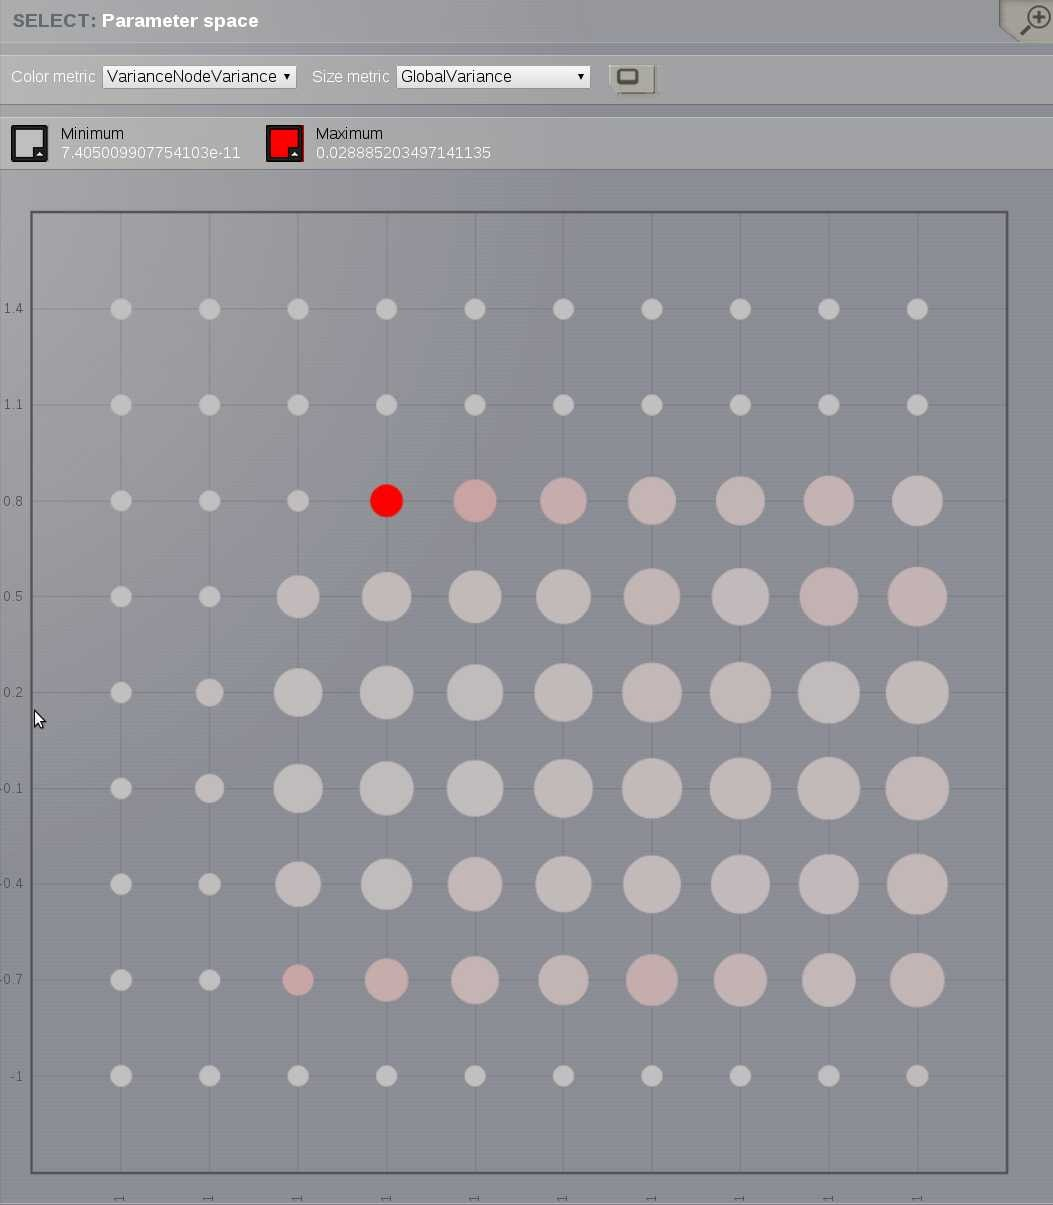
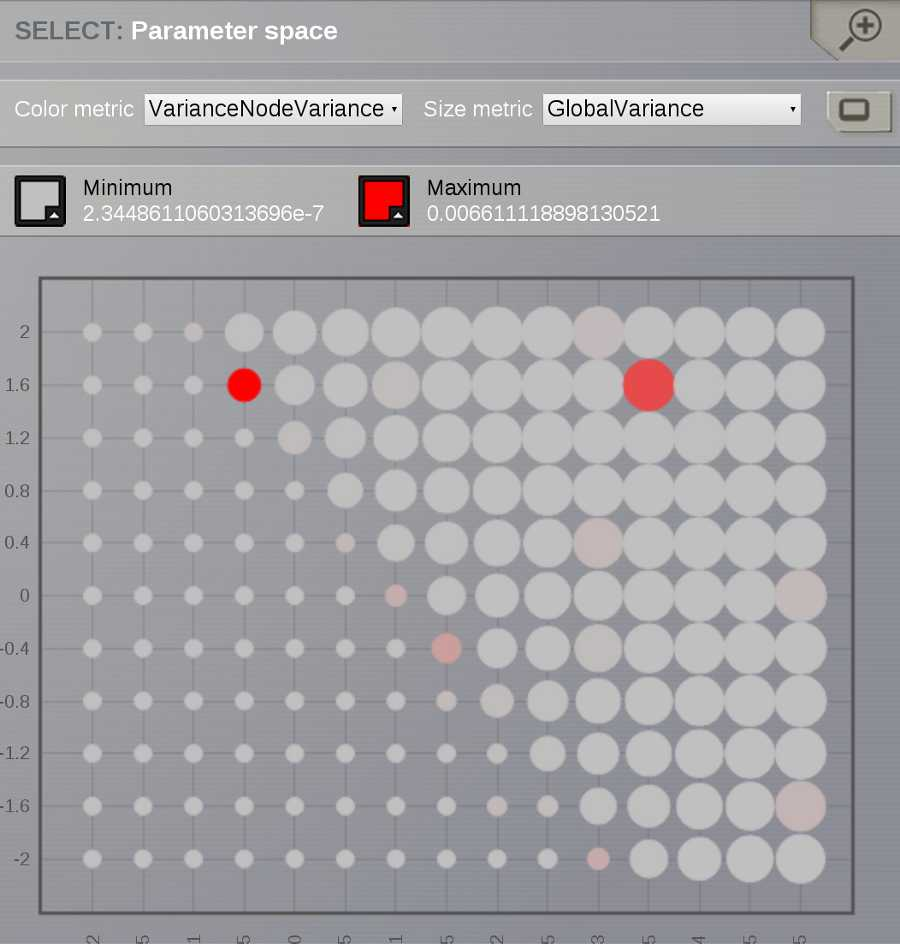
Added more details in the Stimulus tutorial
git-svn-id: https://repo.thevirtualbrain.org/svn/tvb/trunk/docs/manuals@3758 1c0e02f0-7929-43c0-8fb3-3293bf43b0d1

diff --git a/UserGuide/UserGuide-Tutorial_Lesion_Connectivity.rst b/UserGuide/UserGuide-Tutorial_Lesion_Connectivity.rst
@@ -1,5 +1,5 @@
-Tutorial 3
-----------
+Tutorial
+--------
 
 **A simple lesion study using TVB**
 
@@ -14,30 +14,55 @@ removing all the incoming and ongoing connections into and from this node.
 
   - Assuming that you have already created your project:
   
-    - Enter the `Connectivity` Area and click on `Long Range Connectivity`.
-    - Select the default connectivity matrix and click the `Launch` button.
+  - Enter the `Connectivity` Area and click on `Long Range Connectivity`.
+  - Select the default connectivity matrix and click the `Launch` button.
     
-  - In the right side the node-by-node connectivity matrix is displayed. You can select the quadrant to be displayed on the screen by accessing the quadrant selector.  
+  - In the right side the node-by-node connectivity matrix is displayed. You 
+    can select the quadrant to be displayed on the screen by accessing the 
+    quadrant selector.  
     
-    - Unselect the nodes you want lesion by clicking directly on the region labels. This will remove all the incoming and ongoing connections into and from those nodes. Here we choose to lesion the following cortical areas: lCCA, lCCP, and lPFCORB. 
-    - Enter a name for this new selection, save it  and click on the star icon on the top-right to save the new matrix.
-    - Go to `Project` Area and enter the `Data Structure` page. The new connectivity matrix should be available in Intermediate Data. 
-    - By selecting the new Connectivity, you will access to its Datatype Details allowing you to get information about the data, visualize them and export them.
-    - From the `Visualizers` tab you can launch a display to see the new matrix.
+  - Unselect the nodes you want lesion by clicking directly on the region 
+    labels. This will remove all the incoming and ongoing connections into 
+    and from those nodes. Here we choose to lesion the following cortical 
+    areas: lCCA, lCCP, and lPFCORB. 
+
+  - Enter a name for this new selection, save it  and click on the star icon 
+    on the top-right to save the new matrix.
+
+  - Go to `Project` Area and enter the `Data Structure` page. The new 
+    connectivity matrix should be available in Intermediate Data. 
+
+  - By selecting the new Connectivity, you will access to its Datatype 
+    Details allowing you to get information about the data, visualize them 
+    and export them.
+
+  - From the `Visualizers` tab you can launch a display to see the new matrix.
 	
-  - Simulate data using both connectivity matrices. You can now use the new connectivity matrix to simulate brain activity, using the TVB `Simulator`. Here we choose the BOLD model with underlying FitzHugh-Nagumo equations for the local dynamics. We goal is to run two long simulations, one using an intact connectivity and another using the connectivity with lesions. Except for the connectivity matrix, all parameters are the same (including the random number generator seed). 
+  - Simulate data using both connectivity matrices. You can now use the new 
+    connectivity matrix to simulate brain activity, using the TVB `Simulator`. 
+    Here we choose the BOLD model with underlying FitzHugh-Nagumo equations for 
+    the local dynamics. We goal is to run two long simulations, one using an 
+    intact connectivity and another using the connectivity with lesions. Except 
+    for the connectivity matrix, all parameters are the same (including the 
+    random number generator seed). 
     
-    - In the `Simulator` Area - central column - you can choose the long-range connectivity. Select the new connectivity matrix containing the lesions. 
+    - In the `Simulator` Area - central column - you can choose the long-range 
+      connectivity. Select the new connectivity matrix containing the lesions. 
     - Set the local dynamic model to Fitz-Hugh Nagumo.
     - Select BOLD in Monitors. 
     - Name the new simulation and launch it. 
-    - Repeat the previous steps but choosing the default matrix (intact) as the Long-range connectivity. 
+    - Repeat the previous steps but choosing the default matrix (intact) as the 
+      Long-range connectivity. 
 	
-  - Go to the `Operations` board. You can follow the state of the simulations. When simulations are finished your results will be represented by its datatype icons.
+  - Go to the `Operations` board. You can follow the state of the simulations. 
+    When simulations are finished your results will be represented by its 
+    datatype icons.
     
   - Export the results of both simulations and the connectivity matrices. 
   
-    - You can export the results by choosing `Export`: -> TVB format. The data will be stored in an HDF5 file ("filename.h5") which can be used to do further analysis using other softwares. 
+    - You can export the results by choosing `Export`: -> TVB format. The data 
+      will be stored in an HDF5 file ("filename.h5") which can be used to do 
+      further analysis using other softwares. 
 
 
 

diff --git a/UserGuide/UserGuide-Tutorial_Parameter_Space_Exploration.rst b/UserGuide/UserGuide-Tutorial_Parameter_Space_Exploration.rst
@@ -1,43 +1,53 @@
-Tutorial 2
-----------
+Tutorial
+--------
 
 **Performing parameter space exploration**
 
 **Objective**: 
 learn how to sweep and search across different simulation 
-settings that run on a distributed infrastructure. We illustrate this process 
-with a case study in larg-escale brain modelling within |TVB|.
+settings that run on a distributed infrastructure. 
+
+**Summary**: 
+In |TVB| platform it is possible to launch parallel simulations to explore the 
+changes in dynamics of the brain as a function of the local dynamics parameters.
+We illustrate this process with a case study in larg-escale brain simulations 
+within |TVB|.
 
 
-  #. Follow steps 1 to 3 from the Example 1.
-  #. Click on the 'V' button next to the model parameters if you want to see
-      the available parameter range and step size. At present, a maximum of 2
-      parameters can be explored at the same time.
-  #. Launch simulation
-  #. Choose three points within the parameter space. Each parameter set is 
-      represented by a scalar measure.
-  #. A 2D discrete representation will be displayed on the right side of the 
-      screen and it will be updated each time several simulations are finished.
-  #. From those results, the most relevant set of parameters can be 
-      distinguished. Choose three points and run longer simulations for those 
-      parameter sets.
-  #. For each set, run the simulation four times for different degrees of 
-      noise.
-  #. Save data. These data will now be analyzed.
-  #. Generate cross correlation matrix and coherence across all EEG sensors 
-      (or subset) and for fMRI signal across all regions (or subset).
-  #. Visualize on EEG map (circular map à la LP plus surface à la SK) and 
-      cross sections (fMRI).
-  #. Analyze EEG data via PCA. Visualize results:
-  
-    a. Plot modes of principal components and eigenvalues
-    b. FFT or time series
-  
+  - Assuming that you have already created your project:
+  - Enter the `Simulator` area.
+  - Select the default connectivity matrix. 
+  - Choose the local dynamic model `2D Generic Oscillator`
+  - Click on the 'V' button next to the model parameters to unfold the available 
+    parameter range and step size. At present, a maximum of 2
+    parameters can be explored at the same time.
+  - For :math:`I_{ext}` set the step size to 0.4 and for :math:`a` 0.5
+  - Name the new simulation and launch it. 
+  - After all simulation are finished, you should be able to see the Parameter
+    Space Exploration Visualizer.
+
 
 .. figure:: screenshots/simulator_pse_configuration.jpg
-  :width: 60%
-  :align: center
+   :width: 60%
+   :align: center
   
-  Each point in this two dimensional graph represents two metrics: by default
-  Global Variance corresponds to the size of the point and Variance of the
-  Variance of nodes maps the color scale. 
+Each point in this two dimensional graph represents two metrics: by default
+Global Variance corresponds to the size of the point and Variance of the
+Variance of nodes maps the color scale. 
+
+
+  - From those results, critical combination of parameters can be 
+    distinguished. 
+ 
+  -  If you go to `Project` Area and enter the `Data Structure` page. The results 
+     of all simulations will be held under one object called DataTypeGroup.
+
+  - Export the results of all simulations. 
+    
+  - You can export the results by clicking on the aforementioned object and
+    selecting the `Export` tab: -> TVB format.
+    The data will be available for download in a .zip file. 
+
+  - Within this folder you will find the TimeSeries for each possible parameter 
+    combination. Data are stored as HDF5 files ("filename.h5") which can be used 
+    to do further analysis using other softwares. 

diff --git a/UserGuide/UserGuide-Tutorial_Complex_Stimulus.rst b/UserGuide/UserGuide-Tutorial_Complex_Stimulus.rst
@@ -1,0 +1,68 @@
+Tutorial
+--------
+
+**Generate a  spatiotemporal stimulus**
+
+**Objective**: learn how to create a spatiotemporal pattern to study the 
+influence of a stimulation paradigm to outline different patterns of neural 
+activity. 
+
+**Summary**
+The intention is to have a platform capabable of having a representation of 
+stabilizing and unestabilizing sources. The goal is to observe the effect of
+the stimulation. 
+
+
+  -  Assuming that you have already created your project:
+
+  -  Go to the `Stimulus` Area --> `Surface Stimulus` page.
+  -  Enter a new name for the new `Surface Stimulus`.
+  -  Choose the default `Cortical Surface`.
+  -  Select the `Mexican-hat` equation to define the spatial spread of the 
+     stimulus.
+
+  - Spatial parameters are:
+
+	============  	====== 
+	Inputs        	Value 
+	============  	======
+	midpoint1     	20.0
+	midpoint2 	 0.0
+	amp1		 1.0
+	amp2 		 1.0
+	sigma1		20.0
+	sigma2 		10.0
+	============    ======
+
+  - Temporal parameters are:
+
+	============  	====== 
+	Inputs        	Value 
+	============  	======
+	amp 		1.0
+	frequency 	0.1
+	============    ======
+  
+  - Click on View Stimulus Progress
+
+  - Select 10 focal nodes on the right hemisphere.
+
+  - Click on `Save new Stimulus Surface`
+
+  - Your spatiotemporal pattern should be available. You can load it and play
+    the animation on the cortical surface.
+
+  - Go back to `Edit Stimulus Equation`
+
+  - Set new equations and parameters for both spatial and tamporal profiles.
+
+  - Add 10 focal nodes on the left hemisphere.
+
+  - Enter a new name for this new `Stimulus Surface` and save it.
+
+  - You can visualize the new pattern.
+
+
+.. warning::
+
+    The maximum number of focal points you are allowed to add is 20.

diff --git a/UserGuide/UserGuide-Tutorial.rst b/UserGuide/UserGuide-Tutorial.rst
@@ -1,6 +1,11 @@
 Examples and Tutorials
 ======================
 
+
+.. include:: UserGuide-Tutorial_Examples.rst
+
 .. include:: UserGuide-Tutorial_Lesion_Connectivity.rst
 
 .. include:: UserGuide-Tutorial_Parameter_Space_Exploration.rst
+
+.. include:: UserGuide-Tutorial_Complex_Stimulus.rst
